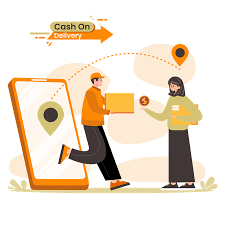
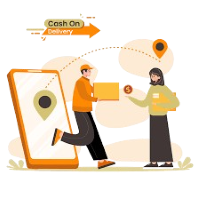
updated map

diff --git a/frontend/src/pages/customer/delivery/TrackDelivery.js b/frontend/src/pages/customer/delivery/TrackDelivery.js
@@ -2,7 +2,7 @@ import React, { useState, useEffect, useRef } from 'react';
 import './TrackDelivery.css';
 import { io } from 'socket.io-client';
 import Pending from '../../../images/delivery/pending.png';
-import OnTheWay from '../../../images/delivery/ontheway.jpg';
+import OnTheWay from '../../../images/delivery/on_the_way.png';
 import pickedUp from '../../../images/delivery/pickedup.png';
 import delivered from '../../../images/delivery/delivered.png';
 import L from 'leaflet';
@@ -11,12 +11,25 @@ import 'leaflet/dist/leaflet.css';
 const deliveryId = "680db8a76c019f23472c927f";
 const socket = io('http://localhost:5008');
 
+const restaurantData = {
+  '67e5441c09bef4b21b6417c3': { name: 'Cafe Amaki', address: 'Kurunegala', lat: 7.4863, lng: 80.3629 },
+  '67e54cc32603c6fa0217e729': { name: 'Choco Loco', address: 'Kurunegala', lat: 7.4863, lng: 80.3629 },
+  '67e57b2ee241c0b6a5cc0eaa': { name: 'Grain & Greens', address: 'Anuradhapura', lat: 8.3114, lng: 80.4037 },
+  '67e677ac014d303b13134e47': { name: 'Frost & Flavours', address: 'Kurunegala', lat: 7.4863, lng: 80.3629 },
+  '6809d1211d6f19eb59963fbf': { name: 'The Hungry Spoon', address: 'Galle', lat: 6.0535, lng: 80.2210 },
+};
+
 const TrackDelivery = () => {
   const [deliveryStatus, setDeliveryStatus] = useState('pending');
   const [loading, setLoading] = useState(true);
   const [location, setLocation] = useState(null); // Store the constant location from the database
+  const [restaurantInfo, setRestaurantInfo] = useState(null);  // Restaurant data
+  const [receiverLocation, setReceiverLocation] = useState(null);  // Receiver's location
   const mapRef = useRef(null);
   const markerRef = useRef(null);
+  const restaurantMarkerRef = useRef(null);
+  const receiverMarkerRef = useRef(null);
+  const polylineRef = useRef(null);
 
   const fetchDeliveryStatus = async () => {
     try {
@@ -29,8 +42,11 @@ const TrackDelivery = () => {
       const data = await response.json();
       if (response.ok && data.delivery) {
         setDeliveryStatus(data.delivery.deliveryStatus);
-        // Set the constant location (fetched from the database)
-        setLocation(data.delivery.location);
+        setLocation(data.delivery.driverDetails.location);
+        setReceiverLocation(data.delivery.deliveryAddress);
+        // Fetch restaurant information based on the restaurantId
+        const restaurantId = data.delivery.restaurants.id; // Assuming the restaurantId is available here
+        setRestaurantInfo(restaurantData[restaurantId]);
       } else {
         console.error('Failed to fetch delivery status:', data.message);
       }
@@ -191,7 +207,7 @@ const TrackDelivery = () => {
         </div>
 
         <div className="map-preview">
-          <div id="live-map" style={{ height: "300px", width: "100%" }}></div>
+          <div id="live-map" style={{ height: "500px", width: "100%" }}></div>
           <p>Live Track your order</p>
         </div>
       </div>

diff --git a/frontend/src/pages/customer/delivery/TrackDelivery.css b/frontend/src/pages/customer/delivery/TrackDelivery.css
@@ -10,8 +10,17 @@
 
 .status-steps {
   display: flex;
-  flex-direction: row;
- 
+  width: 50%;
+  max-width: 600px;
+  margin-bottom: 20px;
+  padding: 0 10px;
+}
+
+.delivery-image-res {
+  width: 75px; 
+  height: auto;
+  margin: 0 10px; 
+  object-fit: contain; 
 }
 
 .step {
@@ -32,6 +41,7 @@
 
 
 .map-preview {
+  width: 50%; 
   text-align: center;
 }
 
@@ -47,10 +57,10 @@
 #live-map {
   border: 1px solid #ccc;
   border-radius: 8px;
-    height: 300px;
-    width: 100%;
-  
+  height: 500px;  /* Increased height */
+  width: 100%;    /* Full width of the container */
 }
+
 
 
 .status-info {
